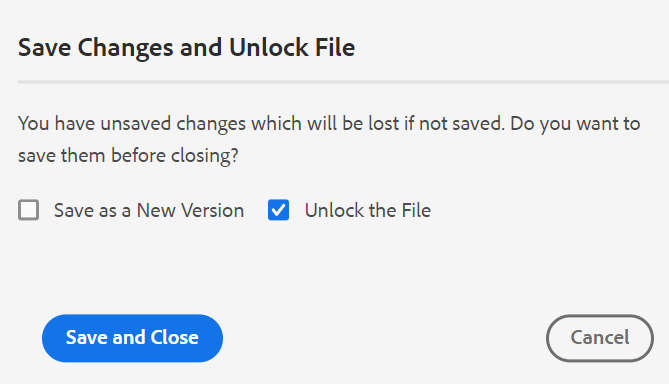
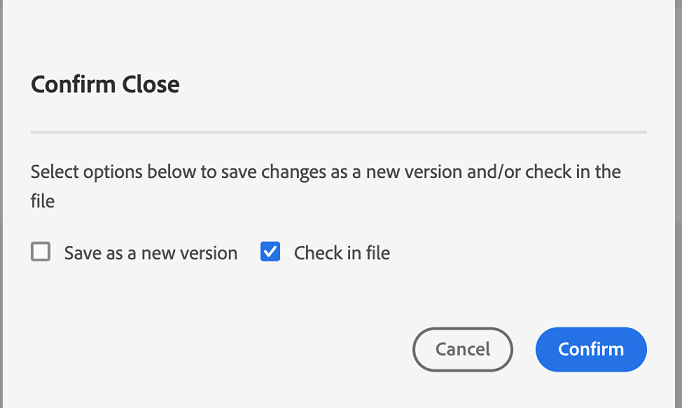
4.3 updates

diff --git a/help/tutorials/user-guide/web-editor-features.md b/help/tutorials/user-guide/web-editor-features.md
@@ -429,6 +429,10 @@ If areas overlap, you can bring the shape forward or send it backward by clickin
 Checks out or checks in the current file. Checking out a file gives the user exclusive write access to the file. When the file is checked-in, the changes are saved in the current version of the file.
 
 If you are in the Map View and you expand the parent map, you can check out all files in the map with a single click. Simply expand the parent map file and select the parent file, which results in selecting all files within the map. Then you can select **Check out**  ![](images/LockClosed_icon.svg) to get the lock on all files within the map.
+
+>[!NOTE]
+>
+> When you check in a file that has any unsaved changes, it prompts you to save the changes. If you don't save your changes, then it only checks in the file.
  
 The tooltip for Check in/Check out is determined by the title property in the `ui_config.json` file.
 
@@ -798,7 +802,7 @@ The various options in the Options menu are explained below:
 
     For a locked file, this option changes to **Check In**.
 
-    When you check in a file, it prompts you to save the changes. If you don't save your changes, then it only checks in the file.
+    When you check in a file that has any unsaved changes, it prompts you to save the changes. If you don't save your changes, then it only checks in the file.
 -   **Preview**: Get a quick preview of the file \(.dita/.xml\) without opening it.
 
     ![](images/quick-preview_cs.png){width="800" align="left"}

diff --git a/help/tutorials/user-guide/web-editor-other-features.md b/help/tutorials/user-guide/web-editor-other-features.md
@@ -113,13 +113,13 @@ You may see the following options depending on whether the file is locked/unlock
 
 -   **Unlock the File**: If you choose to unlock a file, it will release the lock on your file and the changes are saved in the current version of the file.
 
->[!NOTE]
->
-> If you deselect the option to unlock the file, you also get an option to close the file without saving the changes.
+    >[!NOTE]
+    >
+    > If you deselect the option to unlock the file, you also get an option to close the file without saving the changes.
 
-For example, one of the prompts is shown in the following screenshot:
+    For example, one of the prompts is shown in the following screenshot:
 
-![](images/file-close-save-changes-unlock.png){width="400" align="left"}
+    ![](images/file-close-save-changes-unlock.png){width="400" align="left"}
 
 **Visual cues for broken references** 
 
